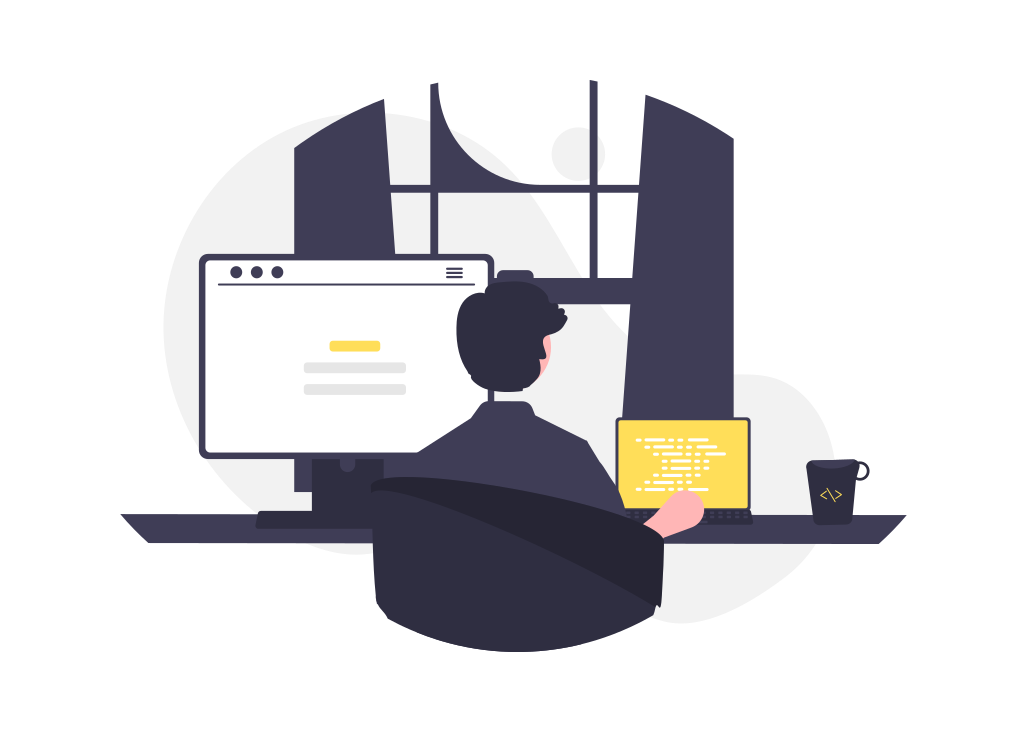
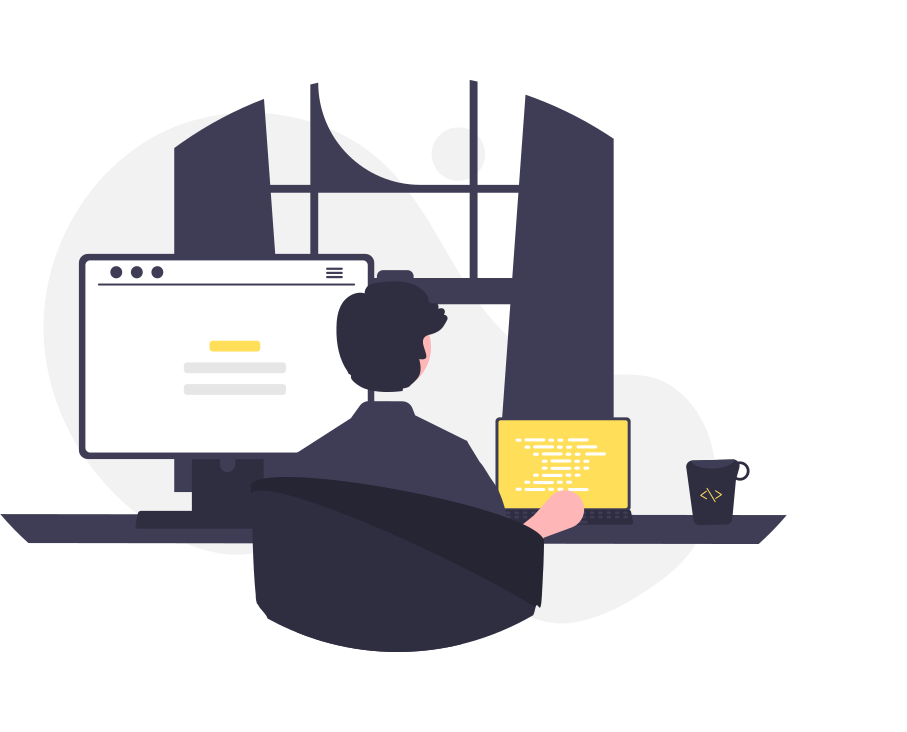
updated layout

diff --git a/public/css/style.min.4e1fcf7546ae0302f24f48a8b9ee66a9f4aea5fda499319ccddfea42687fd01d.css b/public/css/style.min.4e1fcf7546ae0302f24f48a8b9ee66a9f4aea5fda499319ccddfea42687fd01d.css
@@ -1,0 +1,1 @@
+:root{--font-family-heading:Poppins;--font-family-paragraph:Helvetica;--font-family-monospace:monospace;--base-color:#ffffff;--base-offset-color:#eaeaea;--highlight-color:#ffde59;--heading-color:#1c1b1d;--text-color:#000000;--dot-color:#ffde59}body,html{margin:0;padding:0}ol,ul{margin:0;padding:0;list-style:none}ol li,ul li{list-style:none}h1,h2,h3{margin-top:20px;margin-bottom:20px}.header{display:flex;justify-content:space-between;align-items:center;margin-bottom:30px;font-size:16px}@media(min-width:767px){.header{padding-bottom:5px;margin-bottom:40px}}.header a.header-logo{font-weight:700;text-transform:uppercase;margin-right:30px}.hamburger-trigger{height:30px;display:flex;align-items:center}@media(min-width:992px){.hamburger-trigger{display:none}}.hamburger{border:none;cursor:pointer;outline:none;position:relative;display:block;width:30px;height:20px;background:0 0;border-top:2px solid;border-bottom:2px solid;font-size:0;transition:all .25s ease-in-out;color:var(--highlight-color)}.hamburger:before,.hamburger:after{content:'';display:block;width:100%;height:2px;position:absolute;top:50%;left:50%;background:currentColor;transform:translate(-50%,-50%);transition:transform .25s ease-in-out}.hamburger:hover{opacity:.7}.hamburger.is-active{border-color:transparent;z-index:100;color:var(--base-color)}.hamburger.is-active:hover{opacity:1}.hamburger.is-active:before{transform:translate(-50%,-50%)rotate(45deg)}.hamburger.is-active:after{transform:translate(-50%,-50%)rotate(-45deg)}.footer{margin-top:30px}@media(min-width:767px){.footer{padding-top:40px}}.social-icon{margin-right:10px}.social-icon a{text-decoration:none}.social-icon a:hover{text-decoration:none}.social-icon a:hover img{opacity:.7}a{color:gray;text-decoration:none}a:hover{text-decoration:underline}h1,h2,h3{margin-top:20px;margin-bottom:20px;color:var(--heading-color);font-family:var(--font-family-heading)}p{color:var(--text-color);font-family:var(--font-family-paragraph);font-size:18px;line-height:24px}ol,ul{margin:0;padding:0;list-style:none}ol li,ul li{list-style:none}.content{font-size:18px}.content p{font-size:18px;line-height:1.6;margin:0;padding:0;margin-bottom:20px}.content h1{font-size:40px;line-height:1.6;font-weight:700;margin-top:30px;margin-bottom:20px}.content h1:first-of-type{margin-top:0}.content h2{font-size:28px;line-height:1.4;font-weight:700;margin-top:30px;margin-bottom:20px}.content h2:first-of-type{margin-top:0}@media(min-width:767px){.content h2{font-size:30px;line-height:1.4}}.content h3{font-size:22px;line-height:1.4;font-weight:700;margin-top:30px;margin-bottom:20px}.content ul{list-style:disc}.content ul li{list-style:disc}.content ol{list-style:decimal}.content ol li{list-style:decimal}.content ul,.content ol{margin-left:0;margin-top:10px;margin-bottom:20px}.content ul li,.content ol li{font-size:18px;line-height:20px;margin-bottom:10px;margin-left:0}@media(min-width:767px){.content ul li,.content ol li{margin-left:20px}}@media(min-width:767px){.content ul,.content ol{margin-left:20px}}.content a{text-decoration:underline}.content blockquote{border-left:5px solid var(--highlight-color);margin:30px 0;padding:20px}.content blockquote p{font-size:20px;display:inline;color:var(--color-base-text)}.content img{margin:40px 0;max-width:100%;height:auto}.content figure{margin:2.6rem 0 1.18rem}.content figure img{margin:0}.content figure figcaption{margin-top:10px}.content figure figcaption h4{margin:0;font-size:1rem;font-weight:700}.content figure figcaption p{margin:0}.content code,.content pre{font-family:var(--font-family-monospace)}.content .highlight pre{border-radius:3px;font-size:14px;line-height:18px;padding:30px;overflow:auto;font-family:var(--font-family-monospace)}.dot{color:var(--dot-color)}.footnotes ol{list-style:decimal}.footnotes ol li{list-style:decimal}.intro{margin-bottom:60px}.intro h1{font-size:48px;line-height:56px;margin-top:0;margin-bottom:30px}@media(min-width:767px){.intro h1{width:60%;font-size:68px;line-height:74px;margin-bottom:50px}}.intro h1 strong{color:var(--highlight-color)}.intro h2{font-size:50px;line-height:56px}@media(min-width:767px){.intro h2{width:80%}}.intro p{font-size:18px;line-height:26px}@media(min-width:767px){.intro p{width:70%;font-size:20px;line-height:26px}}.intro .read-more{font-size:20px;line-height:26px;font-weight:700}@media(min-width:767px){.intro .read-more{font-size:22px;line-height:32px}}.intro img{width:80%;margin-bottom:0}.summary{margin-bottom:50px;font-size:18px;line-height:24px}@media(min-width:767px){.summary{margin-bottom:80px;font-size:18px;line-height:26px}}.summary .summary-date{font-weight:700;color:var(--heading-color)}.summary .summary-title{margin:16px 0;width:80%;font-size:34px;line-height:38px}@media(min-width:767px){.summary .summary-title{width:80%;font-size:52px;line-height:58px}}.summary .summary-description{width:80%;line-height:1.5}.author{margin-top:30px;margin-bottom:30px;color:var(--heading-color)}.author img{width:30px;height:30px;border-radius:50%;display:inline-block;vertical-align:middle;border:2px solid var(--heading-color)}.author .author-name{display:inline-block;vertical-align:middle;font-weight:700;margin-left:5px}.author .author-date{display:inline-block;vertical-align:middle}.author-large{font-size:20px}.author-large img{width:50px;height:50px}.author-large .author-name{display:inline-block;vertical-align:middle;font-weight:700;margin-left:5px}.author-large .author-title{display:inline-block;vertical-align:middle}ul.pagination{display:flex;justify-content:center;list-style:none;margin:20px 0;padding:0}ul.pagination li{list-style:none;text-decoration:none;border:2px solid var(--highlight-color);border-right:none;text-align:center;vertical-align:middle}ul.pagination li:hover{border-color:var(--highlight-color);background-color:var(--highlight-color);color:#fff}ul.pagination li:hover a{color:#fff}ul.pagination li.pagination-item-current{border-color:var(--highlight-color);background-color:var(--highlight-color);color:#fff}ul.pagination li.pagination-item-current a{color:#fff}ul.pagination li a{padding:9px 13px;display:block;color:var(--highlight-color);text-decoration:none}ul.pagination li:last-of-type{border-right:2px solid var(--highlight-color);border-top-right-radius:3px;border-bottom-right-radius:3px}ul.pagination li:last-of-type:hover{border-color:var(--highlight-color)}ul.pagination li:last-of-type.active{border-color:var(--highlight-color)}ul.pagination li:first-of-type{border-top-left-radius:3px;border-bottom-left-radius:3px}ul.pagination li svg{width:8px;line-height:10px;margin-bottom:2px;vertical-align:middle}.view-more{font-size:18px;font-weight:700}.menu-main{display:none;flex:0}@media(min-width:992px){.menu-main{display:block}}.menu-main>ul{display:flex;align-items:center;justify-content:flex-start}.menu-main>ul>li{margin-right:10px}.menu-main>ul>li>a{display:inline-block;text-decoration:none}.menu-main>ul>li>a:hover{text-decoration:underline}.menu-main>ul>li.active>a{display:inline-block;font-weight:700}.menu-main>ul>li:last-of-type{margin-right:0}.menu-main-mobile{position:fixed;background:var(--highlight-color);top:0;left:0;width:100%;height:100vh;opacity:0;visibility:hidden;transition:opacity .35s,visibility .35s,height .35s;overflow:hidden;display:none;justify-content:center;flex-direction:column}.menu-main-mobile.open{opacity:1;visibility:visible;height:100%;z-index:10;display:flex}.menu-main-mobile.open li{animation:fadeInTop .5s ease forwards;animation-delay:.1s}.menu-main-mobile.open li:nth-of-type(2){animation-delay:.15s}.menu-main-mobile.open li:nth-of-type(3){animation-delay:.2s}.menu-main-mobile.open li:nth-of-type(4){animation-delay:.25s}.menu-main-mobile.open li:nth-of-type(5){animation-delay:.3s}.menu-main-mobile.open li:nth-of-type(6){animation-delay:.35s}.menu-main-mobile ul{font-size:2rem;font-family:var(--font-family-heading);text-align:center;list-style:none;margin:0;flex:0}.menu-main-mobile ul li{display:block;position:relative;opacity:0}.menu-main-mobile ul li a{display:block;position:relative;color:var(--base-color);text-decoration:none}.menu-main-mobile ul li a:hover{opacity:.7}.menu-main-mobile ul li ul.sub-menu{font-size:1.2rem}.hamburger-trigger{height:30px;display:flex;align-items:center}@media(min-width:992px){.hamburger-trigger{display:none}}.hamburger{border:none;cursor:pointer;outline:none;position:relative;display:block;width:30px;height:20px;background:0 0;border-top:2px solid;border-bottom:2px solid;font-size:0;transition:all .25s ease-in-out;color:var(--highlight-color)}.hamburger:before,.hamburger:after{content:'';display:block;width:100%;height:2px;position:absolute;top:50%;left:50%;background:currentColor;transform:translate(-50%,-50%);transition:transform .25s ease-in-out}.hamburger:hover{opacity:.7}.hamburger.is-active{border-color:transparent;z-index:100;color:var(--base-color)}.hamburger.is-active:hover{opacity:1}.hamburger.is-active:before{transform:translate(-50%,-50%)rotate(45deg)}.hamburger.is-active:after{transform:translate(-50%,-50%)rotate(-45deg)}@keyframes fadeInTop{0%{opacity:0;top:20%}100%{opacity:1;top:0}}.highlight{background:#f5f5f5}.highlight .hll{background-color:#ffc}.highlight .c{color:#998;font-style:italic}.highlight .err{color:#a61717;background-color:#e3d2d2}.highlight .k{color:#000;font-weight:700}.highlight .o{color:#000;font-weight:700}.highlight .cm{color:#998;font-style:italic}.highlight .cp{color:#999;font-weight:700;font-style:italic}.highlight .c1{color:#998;font-style:italic}.highlight .cs{color:#999;font-weight:700;font-style:italic}.highlight .gd{color:#000;background-color:#fdd}.highlight .ge{color:#000;font-style:italic}.highlight .gr{color:#a00}.highlight .gh{color:#999}.highlight .gi{color:#000;background-color:#dfd}.highlight .go{color:#888}.highlight .gp{color:#555}.highlight .gs{font-weight:700}.highlight .gu{color:#aaa}.highlight .gt{color:#a00}.highlight .kc{color:#000;font-weight:700}.highlight .kd{color:#000;font-weight:700}.highlight .kn{color:#000;font-weight:700}.highlight .kp{color:#000;font-weight:700}.highlight .kr{color:#000;font-weight:700}.highlight .kt{color:#458;font-weight:700}.highlight .m{color:#099}.highlight .s{color:#d01040}.highlight .na{color:teal}.highlight .nb{color:#0086b3}.highlight .nc{color:#458;font-weight:700}.highlight .no{color:teal}.highlight .nd{color:#3c5d5d;font-weight:700}.highlight .ni{color:purple}.highlight .ne{color:#900;font-weight:700}.highlight .nf{color:#900;font-weight:700}.highlight .nl{color:#900;font-weight:700}.highlight .nn{color:#555}.highlight .nt{color:navy}.highlight .nv{color:teal}.highlight .ow{color:#000;font-weight:700}.highlight .w{color:#bbb}.highlight .mf{color:#099}.highlight .mh{color:#099}.highlight .mi{color:#099}.highlight .mo{color:#099}.highlight .sb{color:#d01040}.highlight .sc{color:#d01040}.highlight .sd{color:#d01040}.highlight .s2{color:#d01040}.highlight .se{color:#d01040}.highlight .sh{color:#d01040}.highlight .si{color:#d01040}.highlight .sx{color:#d01040}.highlight .sr{color:#009926}.highlight .s1{color:#d01040}.highlight .ss{color:#990073}.highlight .bp{color:#999}.highlight .vc{color:teal}.highlight .vg{color:teal}.highlight .vi{color:teal}.highlight .il{color:#099}html,body{box-sizing:border-box}body{background:var(--base-color);font-family:var(--font-family-paragraph);color:var(--text-color);margin:0;padding:20px;overflow-x:hidden;position:fixed;width:100%;min-height:100vh}@media(min-width:767px){body{padding:50px}}body.frame{max-height:100vh;border:18px solid var(--highlight-color)}.wrapper{max-width:1000px;margin:0 auto}

diff --git a/public/css/style.min.474ea79a1bbe3cf085f9e07258d924f01f4199c78577ec2babcfd92b42ba19cb.css b/public/css/style.min.474ea79a1bbe3cf085f9e07258d924f01f4199c78577ec2babcfd92b42ba19cb.css
@@ -1,0 +1,1 @@
+:root{--font-family-heading:Poppins;--font-family-paragraph:Helvetica;--font-family-monospace:monospace;--base-color:#ffffff;--base-offset-color:#eaeaea;--highlight-color:#ffde59;--heading-color:#1c1b1d;--text-color:#000000;--dot-color:#ffde59}body,html{margin:0;padding:0}ol,ul{margin:0;padding:0;list-style:none}ol li,ul li{list-style:none}h1,h2,h3{margin-top:20px;margin-bottom:20px}.header{display:flex;justify-content:space-between;align-items:center;margin-bottom:30px;font-size:16px}@media(min-width:767px){.header{padding-bottom:5px;margin-bottom:40px}}.header a.header-logo{font-weight:700;text-transform:uppercase;margin-right:30px}.hamburger-trigger{height:30px;display:flex;align-items:center}@media(min-width:992px){.hamburger-trigger{display:none}}.hamburger{border:none;cursor:pointer;outline:none;position:relative;display:block;width:30px;height:20px;background:0 0;border-top:2px solid;border-bottom:2px solid;font-size:0;transition:all .25s ease-in-out;color:var(--highlight-color)}.hamburger:before,.hamburger:after{content:'';display:block;width:100%;height:2px;position:absolute;top:50%;left:50%;background:currentColor;transform:translate(-50%,-50%);transition:transform .25s ease-in-out}.hamburger:hover{opacity:.7}.hamburger.is-active{border-color:transparent;z-index:100;color:var(--base-color)}.hamburger.is-active:hover{opacity:1}.hamburger.is-active:before{transform:translate(-50%,-50%)rotate(45deg)}.hamburger.is-active:after{transform:translate(-50%,-50%)rotate(-45deg)}.footer{margin-top:30px}@media(min-width:767px){.footer{padding-top:40px}}.social-icon{margin-right:10px}.social-icon a{text-decoration:none}.social-icon a:hover{text-decoration:none}.social-icon a:hover img{opacity:.7}a{color:gray;text-decoration:none}a:hover{text-decoration:underline}h1,h2,h3{margin-top:20px;margin-bottom:20px;color:var(--heading-color);font-family:var(--font-family-heading)}p{color:var(--text-color);font-family:var(--font-family-paragraph);font-size:18px;line-height:24px}ol,ul{margin:0;padding:0;list-style:none}ol li,ul li{list-style:none}.content{font-size:18px}.content p{font-size:18px;line-height:1.6;margin:0;padding:0;margin-bottom:20px}.content h1{font-size:40px;line-height:1.6;font-weight:700;margin-top:30px;margin-bottom:20px}.content h1:first-of-type{margin-top:0}.content h2{font-size:28px;line-height:1.4;font-weight:700;margin-top:30px;margin-bottom:20px}.content h2:first-of-type{margin-top:0}@media(min-width:767px){.content h2{font-size:30px;line-height:1.4}}.content h3{font-size:22px;line-height:1.4;font-weight:700;margin-top:30px;margin-bottom:20px}.content ul{list-style:disc}.content ul li{list-style:disc}.content ol{list-style:decimal}.content ol li{list-style:decimal}.content ul,.content ol{margin-left:0;margin-top:10px;margin-bottom:20px}.content ul li,.content ol li{font-size:18px;line-height:20px;margin-bottom:10px;margin-left:0}@media(min-width:767px){.content ul li,.content ol li{margin-left:20px}}@media(min-width:767px){.content ul,.content ol{margin-left:20px}}.content a{text-decoration:underline}.content blockquote{border-left:5px solid var(--highlight-color);margin:30px 0;padding:20px}.content blockquote p{font-size:20px;display:inline;color:var(--color-base-text)}.content img{margin:40px 0;max-width:100%;height:auto}.content figure{margin:2.6rem 0 1.18rem}.content figure img{margin:0}.content figure figcaption{margin-top:10px}.content figure figcaption h4{margin:0;font-size:1rem;font-weight:700}.content figure figcaption p{margin:0}.content code,.content pre{font-family:var(--font-family-monospace)}.content .highlight pre{border-radius:3px;font-size:14px;line-height:18px;padding:30px;overflow:auto;font-family:var(--font-family-monospace)}.dot{color:var(--dot-color)}.footnotes ol{list-style:decimal}.footnotes ol li{list-style:decimal}.intro{margin-bottom:60px}.intro h1{font-size:48px;line-height:30px;margin-top:0;margin-bottom:30px}@media(min-width:767px){.intro h1{width:80%;font-size:88px;line-height:94px;margin-bottom:50px}}.intro h1 strong{color:var(--highlight-color)}.intro h2{font-size:50px;line-height:56px}@media(min-width:767px){.intro h2{width:80%}}.intro p{font-size:20px;line-height:26px}@media(min-width:767px){.intro p{width:80%;font-size:22px;line-height:32px}}.intro .read-more{font-size:20px;line-height:26px;font-weight:700}@media(min-width:767px){.intro .read-more{font-size:22px;line-height:32px}}.intro img{max-width:100%}.summary{margin-bottom:50px;font-size:18px;line-height:24px}@media(min-width:767px){.summary{margin-bottom:80px;font-size:18px;line-height:26px}}.summary .summary-date{font-weight:700;color:var(--heading-color)}.summary .summary-title{margin:16px 0;width:80%;font-size:34px;line-height:38px}@media(min-width:767px){.summary .summary-title{width:80%;font-size:52px;line-height:58px}}.summary .summary-description{width:80%;line-height:1.5}.author{margin-top:30px;margin-bottom:30px;color:var(--heading-color)}.author img{width:30px;height:30px;border-radius:50%;display:inline-block;vertical-align:middle;border:2px solid var(--heading-color)}.author .author-name{display:inline-block;vertical-align:middle;font-weight:700;margin-left:5px}.author .author-date{display:inline-block;vertical-align:middle}.author-large{font-size:20px}.author-large img{width:50px;height:50px}.author-large .author-name{display:inline-block;vertical-align:middle;font-weight:700;margin-left:5px}.author-large .author-title{display:inline-block;vertical-align:middle}ul.pagination{display:flex;justify-content:center;list-style:none;margin:20px 0;padding:0}ul.pagination li{list-style:none;text-decoration:none;border:2px solid var(--highlight-color);border-right:none;text-align:center;vertical-align:middle}ul.pagination li:hover{border-color:var(--highlight-color);background-color:var(--highlight-color);color:#fff}ul.pagination li:hover a{color:#fff}ul.pagination li.pagination-item-current{border-color:var(--highlight-color);background-color:var(--highlight-color);color:#fff}ul.pagination li.pagination-item-current a{color:#fff}ul.pagination li a{padding:9px 13px;display:block;color:var(--highlight-color);text-decoration:none}ul.pagination li:last-of-type{border-right:2px solid var(--highlight-color);border-top-right-radius:3px;border-bottom-right-radius:3px}ul.pagination li:last-of-type:hover{border-color:var(--highlight-color)}ul.pagination li:last-of-type.active{border-color:var(--highlight-color)}ul.pagination li:first-of-type{border-top-left-radius:3px;border-bottom-left-radius:3px}ul.pagination li svg{width:8px;line-height:10px;margin-bottom:2px;vertical-align:middle}.view-more{font-size:18px;font-weight:700}.menu-main{display:none;flex:0}@media(min-width:992px){.menu-main{display:block}}.menu-main>ul{display:flex;align-items:center;justify-content:flex-start}.menu-main>ul>li{margin-right:10px}.menu-main>ul>li>a{display:inline-block;text-decoration:none}.menu-main>ul>li>a:hover{text-decoration:underline}.menu-main>ul>li.active>a{display:inline-block;font-weight:700}.menu-main>ul>li:last-of-type{margin-right:0}.menu-main-mobile{position:fixed;background:var(--highlight-color);top:0;left:0;width:100%;height:100vh;opacity:0;visibility:hidden;transition:opacity .35s,visibility .35s,height .35s;overflow:hidden;display:none;justify-content:center;flex-direction:column}.menu-main-mobile.open{opacity:1;visibility:visible;height:100%;z-index:10;display:flex}.menu-main-mobile.open li{animation:fadeInTop .5s ease forwards;animation-delay:.1s}.menu-main-mobile.open li:nth-of-type(2){animation-delay:.15s}.menu-main-mobile.open li:nth-of-type(3){animation-delay:.2s}.menu-main-mobile.open li:nth-of-type(4){animation-delay:.25s}.menu-main-mobile.open li:nth-of-type(5){animation-delay:.3s}.menu-main-mobile.open li:nth-of-type(6){animation-delay:.35s}.menu-main-mobile ul{font-size:2rem;font-family:var(--font-family-heading);text-align:center;list-style:none;margin:0;flex:0}.menu-main-mobile ul li{display:block;position:relative;opacity:0}.menu-main-mobile ul li a{display:block;position:relative;color:var(--base-color);text-decoration:none}.menu-main-mobile ul li a:hover{opacity:.7}.menu-main-mobile ul li ul.sub-menu{font-size:1.2rem}.hamburger-trigger{height:30px;display:flex;align-items:center}@media(min-width:992px){.hamburger-trigger{display:none}}.hamburger{border:none;cursor:pointer;outline:none;position:relative;display:block;width:30px;height:20px;background:0 0;border-top:2px solid;border-bottom:2px solid;font-size:0;transition:all .25s ease-in-out;color:var(--highlight-color)}.hamburger:before,.hamburger:after{content:'';display:block;width:100%;height:2px;position:absolute;top:50%;left:50%;background:currentColor;transform:translate(-50%,-50%);transition:transform .25s ease-in-out}.hamburger:hover{opacity:.7}.hamburger.is-active{border-color:transparent;z-index:100;color:var(--base-color)}.hamburger.is-active:hover{opacity:1}.hamburger.is-active:before{transform:translate(-50%,-50%)rotate(45deg)}.hamburger.is-active:after{transform:translate(-50%,-50%)rotate(-45deg)}@keyframes fadeInTop{0%{opacity:0;top:20%}100%{opacity:1;top:0}}.highlight{background:#f5f5f5}.highlight .hll{background-color:#ffc}.highlight .c{color:#998;font-style:italic}.highlight .err{color:#a61717;background-color:#e3d2d2}.highlight .k{color:#000;font-weight:700}.highlight .o{color:#000;font-weight:700}.highlight .cm{color:#998;font-style:italic}.highlight .cp{color:#999;font-weight:700;font-style:italic}.highlight .c1{color:#998;font-style:italic}.highlight .cs{color:#999;font-weight:700;font-style:italic}.highlight .gd{color:#000;background-color:#fdd}.highlight .ge{color:#000;font-style:italic}.highlight .gr{color:#a00}.highlight .gh{color:#999}.highlight .gi{color:#000;background-color:#dfd}.highlight .go{color:#888}.highlight .gp{color:#555}.highlight .gs{font-weight:700}.highlight .gu{color:#aaa}.highlight .gt{color:#a00}.highlight .kc{color:#000;font-weight:700}.highlight .kd{color:#000;font-weight:700}.highlight .kn{color:#000;font-weight:700}.highlight .kp{color:#000;font-weight:700}.highlight .kr{color:#000;font-weight:700}.highlight .kt{color:#458;font-weight:700}.highlight .m{color:#099}.highlight .s{color:#d01040}.highlight .na{color:teal}.highlight .nb{color:#0086b3}.highlight .nc{color:#458;font-weight:700}.highlight .no{color:teal}.highlight .nd{color:#3c5d5d;font-weight:700}.highlight .ni{color:purple}.highlight .ne{color:#900;font-weight:700}.highlight .nf{color:#900;font-weight:700}.highlight .nl{color:#900;font-weight:700}.highlight .nn{color:#555}.highlight .nt{color:navy}.highlight .nv{color:teal}.highlight .ow{color:#000;font-weight:700}.highlight .w{color:#bbb}.highlight .mf{color:#099}.highlight .mh{color:#099}.highlight .mi{color:#099}.highlight .mo{color:#099}.highlight .sb{color:#d01040}.highlight .sc{color:#d01040}.highlight .sd{color:#d01040}.highlight .s2{color:#d01040}.highlight .se{color:#d01040}.highlight .sh{color:#d01040}.highlight .si{color:#d01040}.highlight .sx{color:#d01040}.highlight .sr{color:#009926}.highlight .s1{color:#d01040}.highlight .ss{color:#990073}.highlight .bp{color:#999}.highlight .vc{color:teal}.highlight .vg{color:teal}.highlight .vi{color:teal}.highlight .il{color:#099}html,body{box-sizing:border-box}body{background:var(--base-color);font-family:var(--font-family-paragraph);color:var(--text-color);margin:0;padding:20px;overflow-x:hidden}@media(min-width:767px){body{padding:50px}}body.frame{min-height:100vh;border:18px solid var(--highlight-color)}.wrapper{max-width:1000px;margin:0 auto}

diff --git a/public/css/style.min.306f49b48a90eddd8c99c96a18a5e3781239527c269606bb0e8b59d952166607.css b/public/css/style.min.306f49b48a90eddd8c99c96a18a5e3781239527c269606bb0e8b59d952166607.css
@@ -1,0 +1,1 @@
+:root{--font-family-heading:Poppins;--font-family-paragraph:Helvetica;--font-family-monospace:monospace;--base-color:#ffffff;--base-offset-color:#eaeaea;--highlight-color:#ffde59;--heading-color:#1c1b1d;--text-color:#000000;--dot-color:#ffde59}body,html{margin:0;padding:0}ol,ul{margin:0;padding:0;list-style:none}ol li,ul li{list-style:none}h1,h2,h3{margin-top:20px;margin-bottom:20px}.header{display:flex;justify-content:space-between;align-items:center;margin-bottom:30px;font-size:16px}@media(min-width:767px){.header{padding-bottom:5px;margin-bottom:40px}}.header a.header-logo{font-weight:700;text-transform:uppercase;margin-right:30px}.hamburger-trigger{height:30px;display:flex;align-items:center}@media(min-width:992px){.hamburger-trigger{display:none}}.hamburger{border:none;cursor:pointer;outline:none;position:relative;display:block;width:30px;height:20px;background:0 0;border-top:2px solid;border-bottom:2px solid;font-size:0;transition:all .25s ease-in-out;color:var(--highlight-color)}.hamburger:before,.hamburger:after{content:'';display:block;width:100%;height:2px;position:absolute;top:50%;left:50%;background:currentColor;transform:translate(-50%,-50%);transition:transform .25s ease-in-out}.hamburger:hover{opacity:.7}.hamburger.is-active{border-color:transparent;z-index:100;color:var(--base-color)}.hamburger.is-active:hover{opacity:1}.hamburger.is-active:before{transform:translate(-50%,-50%)rotate(45deg)}.hamburger.is-active:after{transform:translate(-50%,-50%)rotate(-45deg)}.footer{margin-top:30px}@media(min-width:767px){.footer{padding-top:40px}}.social-icon{margin-right:10px}.social-icon a{text-decoration:none}.social-icon a:hover{text-decoration:none}.social-icon a:hover img{opacity:.7}a{color:gray;text-decoration:none}a:hover{text-decoration:underline}h1,h2,h3{margin-top:20px;margin-bottom:20px;color:var(--heading-color);font-family:var(--font-family-heading)}p{color:var(--text-color);font-family:var(--font-family-paragraph);font-size:18px;line-height:24px}ol,ul{margin:0;padding:0;list-style:none}ol li,ul li{list-style:none}.content{font-size:18px}.content p{font-size:18px;line-height:1.6;margin:0;padding:0;margin-bottom:20px}.content h1{font-size:40px;line-height:1.6;font-weight:700;margin-top:30px;margin-bottom:20px}.content h1:first-of-type{margin-top:0}.content h2{font-size:28px;line-height:1.4;font-weight:700;margin-top:30px;margin-bottom:20px}.content h2:first-of-type{margin-top:0}@media(min-width:767px){.content h2{font-size:30px;line-height:1.4}}.content h3{font-size:22px;line-height:1.4;font-weight:700;margin-top:30px;margin-bottom:20px}.content ul{list-style:disc}.content ul li{list-style:disc}.content ol{list-style:decimal}.content ol li{list-style:decimal}.content ul,.content ol{margin-left:0;margin-top:10px;margin-bottom:20px}.content ul li,.content ol li{font-size:18px;line-height:20px;margin-bottom:10px;margin-left:0}@media(min-width:767px){.content ul li,.content ol li{margin-left:20px}}@media(min-width:767px){.content ul,.content ol{margin-left:20px}}.content a{text-decoration:underline}.content blockquote{border-left:5px solid var(--highlight-color);margin:30px 0;padding:20px}.content blockquote p{font-size:20px;display:inline;color:var(--color-base-text)}.content img{margin:40px 0;max-width:100%;height:auto}.content figure{margin:2.6rem 0 1.18rem}.content figure img{margin:0}.content figure figcaption{margin-top:10px}.content figure figcaption h4{margin:0;font-size:1rem;font-weight:700}.content figure figcaption p{margin:0}.content code,.content pre{font-family:var(--font-family-monospace)}.content .highlight pre{border-radius:3px;font-size:14px;line-height:18px;padding:30px;overflow:auto;font-family:var(--font-family-monospace)}.dot{color:var(--dot-color)}.footnotes ol{list-style:decimal}.footnotes ol li{list-style:decimal}.intro{margin-bottom:60px}.intro h1{font-size:10px;margin-top:0;margin-bottom:30px}@media(min-width:767px){.intro h1{width:80%;font-size:88px;line-height:94px;margin-bottom:50px}}.intro h1 strong{color:var(--highlight-color)}.intro h2{font-size:50px;line-height:56px}@media(min-width:767px){.intro h2{width:80%}}.intro p{font-size:20px;line-height:26px}@media(min-width:767px){.intro p{width:80%;font-size:22px;line-height:32px}}.intro .read-more{font-size:20px;line-height:26px;font-weight:700}@media(min-width:767px){.intro .read-more{font-size:22px;line-height:32px}}.intro img{max-width:100%}.summary{margin-bottom:50px;font-size:18px;line-height:24px}@media(min-width:767px){.summary{margin-bottom:80px;font-size:18px;line-height:26px}}.summary .summary-date{font-weight:700;color:var(--heading-color)}.summary .summary-title{margin:16px 0;width:80%;font-size:34px;line-height:38px}@media(min-width:767px){.summary .summary-title{width:80%;font-size:52px;line-height:58px}}.summary .summary-description{width:80%;line-height:1.5}.author{margin-top:30px;margin-bottom:30px;color:var(--heading-color)}.author img{width:30px;height:30px;border-radius:50%;display:inline-block;vertical-align:middle;border:2px solid var(--heading-color)}.author .author-name{display:inline-block;vertical-align:middle;font-weight:700;margin-left:5px}.author .author-date{display:inline-block;vertical-align:middle}.author-large{font-size:20px}.author-large img{width:50px;height:50px}.author-large .author-name{display:inline-block;vertical-align:middle;font-weight:700;margin-left:5px}.author-large .author-title{display:inline-block;vertical-align:middle}ul.pagination{display:flex;justify-content:center;list-style:none;margin:20px 0;padding:0}ul.pagination li{list-style:none;text-decoration:none;border:2px solid var(--highlight-color);border-right:none;text-align:center;vertical-align:middle}ul.pagination li:hover{border-color:var(--highlight-color);background-color:var(--highlight-color);color:#fff}ul.pagination li:hover a{color:#fff}ul.pagination li.pagination-item-current{border-color:var(--highlight-color);background-color:var(--highlight-color);color:#fff}ul.pagination li.pagination-item-current a{color:#fff}ul.pagination li a{padding:9px 13px;display:block;color:var(--highlight-color);text-decoration:none}ul.pagination li:last-of-type{border-right:2px solid var(--highlight-color);border-top-right-radius:3px;border-bottom-right-radius:3px}ul.pagination li:last-of-type:hover{border-color:var(--highlight-color)}ul.pagination li:last-of-type.active{border-color:var(--highlight-color)}ul.pagination li:first-of-type{border-top-left-radius:3px;border-bottom-left-radius:3px}ul.pagination li svg{width:8px;line-height:10px;margin-bottom:2px;vertical-align:middle}.view-more{font-size:18px;font-weight:700}.menu-main{display:none;flex:0}@media(min-width:992px){.menu-main{display:block}}.menu-main>ul{display:flex;align-items:center;justify-content:flex-start}.menu-main>ul>li{margin-right:10px}.menu-main>ul>li>a{display:inline-block;text-decoration:none}.menu-main>ul>li>a:hover{text-decoration:underline}.menu-main>ul>li.active>a{display:inline-block;font-weight:700}.menu-main>ul>li:last-of-type{margin-right:0}.menu-main-mobile{position:fixed;background:var(--highlight-color);top:0;left:0;width:100%;height:100vh;opacity:0;visibility:hidden;transition:opacity .35s,visibility .35s,height .35s;overflow:hidden;display:none;justify-content:center;flex-direction:column}.menu-main-mobile.open{opacity:1;visibility:visible;height:100%;z-index:10;display:flex}.menu-main-mobile.open li{animation:fadeInTop .5s ease forwards;animation-delay:.1s}.menu-main-mobile.open li:nth-of-type(2){animation-delay:.15s}.menu-main-mobile.open li:nth-of-type(3){animation-delay:.2s}.menu-main-mobile.open li:nth-of-type(4){animation-delay:.25s}.menu-main-mobile.open li:nth-of-type(5){animation-delay:.3s}.menu-main-mobile.open li:nth-of-type(6){animation-delay:.35s}.menu-main-mobile ul{font-size:2rem;font-family:var(--font-family-heading);text-align:center;list-style:none;margin:0;flex:0}.menu-main-mobile ul li{display:block;position:relative;opacity:0}.menu-main-mobile ul li a{display:block;position:relative;color:var(--base-color);text-decoration:none}.menu-main-mobile ul li a:hover{opacity:.7}.menu-main-mobile ul li ul.sub-menu{font-size:1.2rem}.hamburger-trigger{height:30px;display:flex;align-items:center}@media(min-width:992px){.hamburger-trigger{display:none}}.hamburger{border:none;cursor:pointer;outline:none;position:relative;display:block;width:30px;height:20px;background:0 0;border-top:2px solid;border-bottom:2px solid;font-size:0;transition:all .25s ease-in-out;color:var(--highlight-color)}.hamburger:before,.hamburger:after{content:'';display:block;width:100%;height:2px;position:absolute;top:50%;left:50%;background:currentColor;transform:translate(-50%,-50%);transition:transform .25s ease-in-out}.hamburger:hover{opacity:.7}.hamburger.is-active{border-color:transparent;z-index:100;color:var(--base-color)}.hamburger.is-active:hover{opacity:1}.hamburger.is-active:before{transform:translate(-50%,-50%)rotate(45deg)}.hamburger.is-active:after{transform:translate(-50%,-50%)rotate(-45deg)}@keyframes fadeInTop{0%{opacity:0;top:20%}100%{opacity:1;top:0}}.highlight{background:#f5f5f5}.highlight .hll{background-color:#ffc}.highlight .c{color:#998;font-style:italic}.highlight .err{color:#a61717;background-color:#e3d2d2}.highlight .k{color:#000;font-weight:700}.highlight .o{color:#000;font-weight:700}.highlight .cm{color:#998;font-style:italic}.highlight .cp{color:#999;font-weight:700;font-style:italic}.highlight .c1{color:#998;font-style:italic}.highlight .cs{color:#999;font-weight:700;font-style:italic}.highlight .gd{color:#000;background-color:#fdd}.highlight .ge{color:#000;font-style:italic}.highlight .gr{color:#a00}.highlight .gh{color:#999}.highlight .gi{color:#000;background-color:#dfd}.highlight .go{color:#888}.highlight .gp{color:#555}.highlight .gs{font-weight:700}.highlight .gu{color:#aaa}.highlight .gt{color:#a00}.highlight .kc{color:#000;font-weight:700}.highlight .kd{color:#000;font-weight:700}.highlight .kn{color:#000;font-weight:700}.highlight .kp{color:#000;font-weight:700}.highlight .kr{color:#000;font-weight:700}.highlight .kt{color:#458;font-weight:700}.highlight .m{color:#099}.highlight .s{color:#d01040}.highlight .na{color:teal}.highlight .nb{color:#0086b3}.highlight .nc{color:#458;font-weight:700}.highlight .no{color:teal}.highlight .nd{color:#3c5d5d;font-weight:700}.highlight .ni{color:purple}.highlight .ne{color:#900;font-weight:700}.highlight .nf{color:#900;font-weight:700}.highlight .nl{color:#900;font-weight:700}.highlight .nn{color:#555}.highlight .nt{color:navy}.highlight .nv{color:teal}.highlight .ow{color:#000;font-weight:700}.highlight .w{color:#bbb}.highlight .mf{color:#099}.highlight .mh{color:#099}.highlight .mi{color:#099}.highlight .mo{color:#099}.highlight .sb{color:#d01040}.highlight .sc{color:#d01040}.highlight .sd{color:#d01040}.highlight .s2{color:#d01040}.highlight .se{color:#d01040}.highlight .sh{color:#d01040}.highlight .si{color:#d01040}.highlight .sx{color:#d01040}.highlight .sr{color:#009926}.highlight .s1{color:#d01040}.highlight .ss{color:#990073}.highlight .bp{color:#999}.highlight .vc{color:teal}.highlight .vg{color:teal}.highlight .vi{color:teal}.highlight .il{color:#099}html,body{box-sizing:border-box}body{background:var(--base-color);font-family:var(--font-family-paragraph);color:var(--text-color);margin:0;padding:20px;overflow-x:hidden}@media(min-width:767px){body{padding:50px}}body.frame{min-height:100vh;border:18px solid var(--highlight-color)}.wrapper{max-width:1000px;margin:0 auto}

diff --git a/public/index.html b/public/index.html
@@ -2,23 +2,23 @@
 <html lang="en">
 
 <head>
-	<meta name="generator" content="Hugo 0.134.1"><script src="/livereload.js?mindelay=10&amp;v=2&amp;port=1313&amp;path=livereload" data-no-instant defer></script>
+	<meta name="generator" content="Hugo 0.134.1">
   <meta charset="utf-8">
   <meta http-equiv="x-ua-compatible" content="ie=edge">
   <title>One sec... we&#39;ll be right back - Hugo Winston Theme</title>
   <meta name="viewport" content="width=device-width, initial-scale=1">
-  <link rel="icon" href="//localhost:1313/favicon.png">
-  <link rel="canonical" href="//localhost:1313/" />
+  <link rel="icon" href="/favicon.png">
+  <link rel="canonical" href="/" />
     
     
-    <link rel="stylesheet" href="/css/style.css">
-    <link rel="stylesheet" href="/assets/css/extended.css">
+    <link rel="stylesheet" href="/css/style.min.81a1fb6ee186ef7c757f4079e405d12a10d3e1928fb201f4b36711b92adaaae5.css">
+    <link rel="stylesheet" href="/assets/css/extended.min.9729f28a5087b689b946e103d96abd63bfd37b1417effa251dbf798312e3fba5.css">
 
   
     
     <meta property="og:title" content="One sec... we&#39;ll be right back"/>
     <meta property="og:type" content="website"/>
-    <meta property="og:url" content="//localhost:1313/"/>
+    <meta property="og:url" content="/"/>
     
     
     <meta name="twitter:card" content="summary"/>
@@ -73,26 +73,14 @@
   
 
 
-    <div class="footer">
-  
-  
-  
-</div>
+    
   </div>
 
   
 
   
-    <script type="text/javascript" src="/js/bundle.js"></script>
+    <script type="text/javascript" src="/js/bundle.min.5993fcb11c07dea925a3fbd58c03c7f1857197c35fccce3aa963a12c0b3c9960.js"></script>
   
-
-  
-  
-
-  
-
-  
-
 
   
 

diff --git a/public/categories/index.html b/public/categories/index.html
@@ -1,23 +1,23 @@
 <!DOCTYPE html>
 <html lang="en">
 
-<head><script src="/livereload.js?mindelay=10&amp;v=2&amp;port=1313&amp;path=livereload" data-no-instant defer></script>
+<head>
   <meta charset="utf-8">
   <meta http-equiv="x-ua-compatible" content="ie=edge">
   <title>Categories - Hugo Winston Theme</title>
   <meta name="viewport" content="width=device-width, initial-scale=1">
-  <link rel="icon" href="//localhost:1313/favicon.png">
-  <link rel="canonical" href="//localhost:1313/categories/" />
+  <link rel="icon" href="/favicon.png">
+  <link rel="canonical" href="/categories/" />
     
     
-    <link rel="stylesheet" href="/css/style.css">
-    <link rel="stylesheet" href="/assets/css/extended.css">
+    <link rel="stylesheet" href="/css/style.min.81a1fb6ee186ef7c757f4079e405d12a10d3e1928fb201f4b36711b92adaaae5.css">
+    <link rel="stylesheet" href="/assets/css/extended.min.9729f28a5087b689b946e103d96abd63bfd37b1417effa251dbf798312e3fba5.css">
 
   
     
     <meta property="og:title" content="Categories"/>
     <meta property="og:type" content="website"/>
-    <meta property="og:url" content="//localhost:1313/categories/"/>
+    <meta property="og:url" content="/categories/"/>
     
     
     <meta name="twitter:card" content="summary"/>
@@ -64,26 +64,14 @@
   
   
 
-    <div class="footer">
-  
-  
-  
-</div>
+    
   </div>
 
   
 
   
-    <script type="text/javascript" src="/js/bundle.js"></script>
+    <script type="text/javascript" src="/js/bundle.min.5993fcb11c07dea925a3fbd58c03c7f1857197c35fccce3aa963a12c0b3c9960.js"></script>
   
-
-  
-  
-
-  
-
-  
-
 
   
 

diff --git a/public/tags/index.html b/public/tags/index.html
@@ -1,23 +1,23 @@
 <!DOCTYPE html>
 <html lang="en">
 
-<head><script src="/livereload.js?mindelay=10&amp;v=2&amp;port=1313&amp;path=livereload" data-no-instant defer></script>
+<head>
   <meta charset="utf-8">
   <meta http-equiv="x-ua-compatible" content="ie=edge">
   <title>Tags - Hugo Winston Theme</title>
   <meta name="viewport" content="width=device-width, initial-scale=1">
-  <link rel="icon" href="//localhost:1313/favicon.png">
-  <link rel="canonical" href="//localhost:1313/tags/" />
+  <link rel="icon" href="/favicon.png">
+  <link rel="canonical" href="/tags/" />
     
     
-    <link rel="stylesheet" href="/css/style.css">
-    <link rel="stylesheet" href="/assets/css/extended.css">
+    <link rel="stylesheet" href="/css/style.min.81a1fb6ee186ef7c757f4079e405d12a10d3e1928fb201f4b36711b92adaaae5.css">
+    <link rel="stylesheet" href="/assets/css/extended.min.9729f28a5087b689b946e103d96abd63bfd37b1417effa251dbf798312e3fba5.css">
 
   
     
     <meta property="og:title" content="Tags"/>
     <meta property="og:type" content="website"/>
-    <meta property="og:url" content="//localhost:1313/tags/"/>
+    <meta property="og:url" content="/tags/"/>
     
     
     <meta name="twitter:card" content="summary"/>
@@ -64,26 +64,14 @@
   
   
 
-    <div class="footer">
-  
-  
-  
-</div>
+    
   </div>
 
   
 
   
-    <script type="text/javascript" src="/js/bundle.js"></script>
+    <script type="text/javascript" src="/js/bundle.min.5993fcb11c07dea925a3fbd58c03c7f1857197c35fccce3aa963a12c0b3c9960.js"></script>
   
-
-  
-  
-
-  
-
-  
-
 
   
 

diff --git a/public/css/style.css b/public/css/style.css
@@ -242,9 +242,9 @@ ul {
     margin-bottom: 30px; }
     @media (min-width: 767px) {
       .intro h1 {
-        width: 80%;
-        font-size: 88px;
-        line-height: 94px;
+        width: 60%;
+        font-size: 68px;
+        line-height: 74px;
         margin-bottom: 50px; } }
     .intro h1 strong {
       color: var(--highlight-color); }
@@ -255,13 +255,14 @@ ul {
       .intro h2 {
         width: 80%; } }
   .intro p {
-    font-size: 20px;
-    line-height: 26px; }
+    font-size: 18px;
+    line-height: 26px;
+    margin-top: 20px; }
     @media (min-width: 767px) {
       .intro p {
-        width: 80%;
-        font-size: 22px;
-        line-height: 32px; } }
+        width: 70%;
+        font-size: 20px;
+        line-height: 26px; } }
   .intro .read-more {
     font-size: 20px;
     line-height: 26px;
@@ -271,8 +272,11 @@ ul {
         font-size: 22px;
         line-height: 32px; } }
   .intro img {
-    max-width: 100%; }
-
+    width: 100%;
+    margin-top: 30px; }
+    @media (min-width: 767px) {
+      .intro img {
+        width: 80%; } }
 .summary {
   margin-bottom: 50px;
   font-size: 18px;
@@ -794,12 +798,15 @@ body {
   color: var(--text-color);
   margin: 0;
   padding: 20px;
-  overflow-x: hidden; }
+  overflow-x: hidden;
+  width: 100%;
+  min-height: 100vh; }
   @media (min-width: 767px) {
     body {
-      padding: 50px; } }
+      padding: 50px;
+      min-height: 100vh; } }
   body.frame {
-    min-height: 100vh;
+    max-height: 100vh;
     border: 18px solid var(--highlight-color); }
 
 .wrapper {

diff --git a/themes/hugo/winston-theme/assets/scss/_intro.scss b/themes/hugo/winston-theme/assets/scss/_intro.scss
@@ -6,9 +6,9 @@
     margin-top: 0;
     margin-bottom: 30px;
     @include breakpoint('small') {
-      width: 80%;
-      font-size: 88px;
-      line-height: 94px;
+      width: 60%;
+      font-size: 68px;
+      line-height: 74px;
       margin-bottom: 50px;
     }
     strong {
@@ -23,12 +23,13 @@
     }
   }
   p {
-    font-size: 20px;
+    font-size: 18px;
     line-height: 26px;
+    margin-top: 20px;
     @include breakpoint('small') {
-      width: 80%;
-      font-size: 22px;
-      line-height: 32px;
+      width: 70%;
+      font-size: 20px;
+      line-height: 26px;
     }
   }
   .read-more {
@@ -41,7 +42,11 @@
     }
   }
   img {
-    max-width: 100%;
+    width: 100%;
+    margin-top: 30px;
+    @include breakpoint('small') {
+        width: 80%;
+      }
   }
   // img {
   //   margin-right: -30px;

diff --git a/themes/hugo/winston-theme/layouts/_default/baseof.html b/themes/hugo/winston-theme/layouts/_default/baseof.html
@@ -50,7 +50,7 @@
     {{ partial "header.html" . }}
     {{ block "main" . }}
     {{ end }}
-    {{ partial "footer.html" . }}
+    {{/*  {{ partial "footer.html" . }}  */}}
   </div>
 
   {{ $scripts := resources.Get "js/scripts.js" }}
@@ -63,10 +63,10 @@
     <script type="text/javascript" src="{{ $js.RelPermalink }}"></script>
   {{ end }}
 
-  {{ block "footer_js" . }}
+  {{/*  {{ block "footer_js" . }}
   {{ end }}
 
-  {{ partial "extend-footer.html" . }}
+  {{ partial "extend-footer.html" . }}  */}}
 
 </body>
 </html>

diff --git a/themes/hugo/winston-theme/assets/scss/style.scss b/themes/hugo/winston-theme/assets/scss/style.scss
@@ -40,11 +40,16 @@ body {
   margin: 0;
   padding: 20px;
   overflow-x: hidden;
+  
+  width: 100%;
+  min-height: 100vh; 
+  
   @include breakpoint('small') {
     padding: 50px;
+    min-height: 100vh;
   }
   &.frame {
-    min-height: 100vh;
+    max-height: 100vh;
     border: 18px solid var(--highlight-color);
   }
 }

diff --git a/themes/hugo/winston-theme/layouts/index.html b/themes/hugo/winston-theme/layouts/index.html
@@ -39,5 +39,5 @@
 
 {{ end }}
 
-{{ define "footer_js" }}
-{{ end }}
+{{/*  {{ define "footer_js" }}
+{{ end }}  */}}
